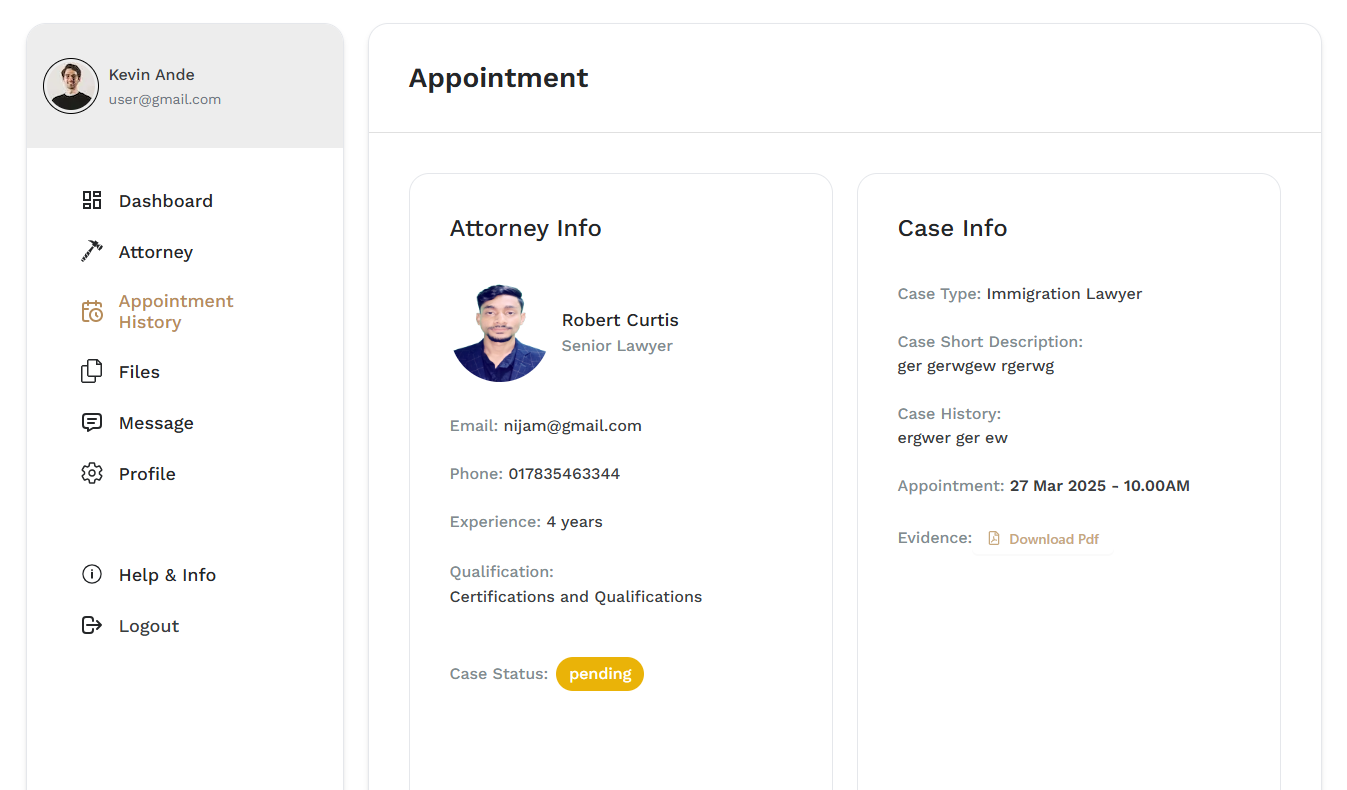
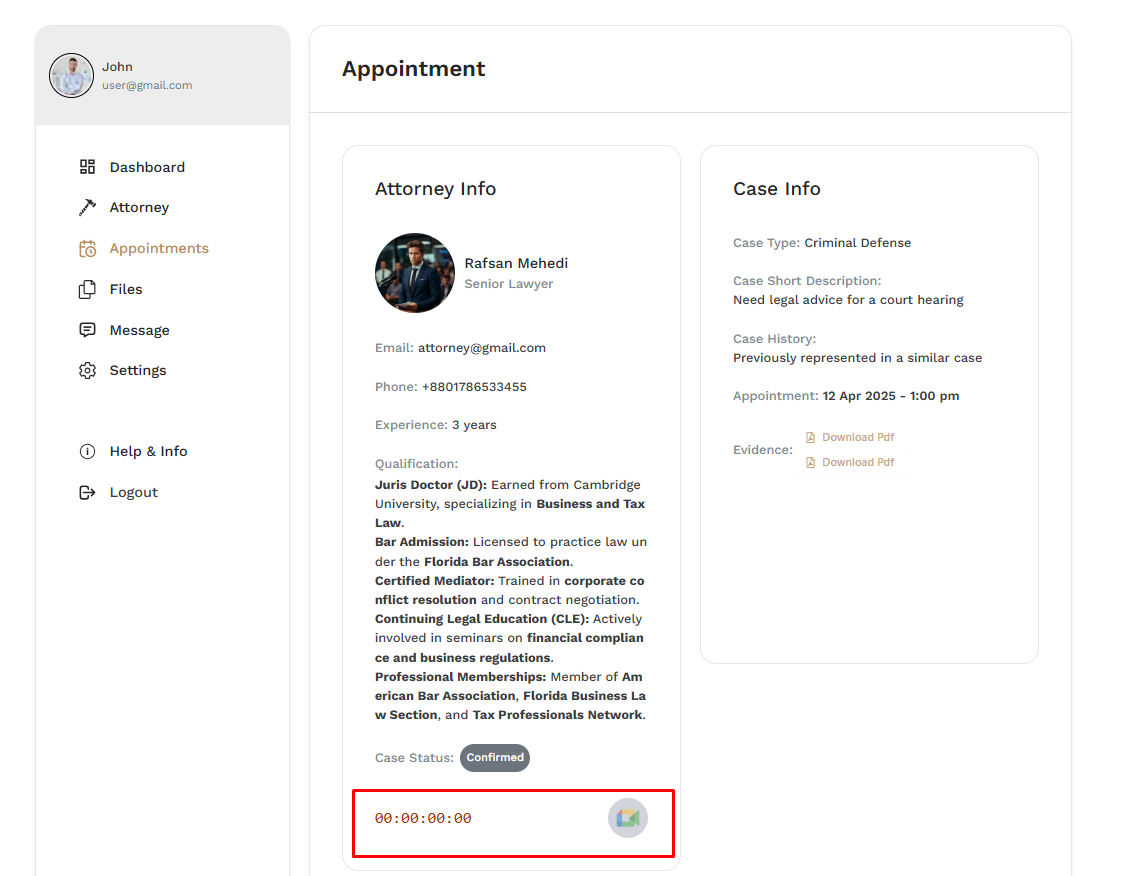
Refactor code structure for improved readability and maintainability

diff --git a/docs/Admin/dashboard.md b/docs/Admin/dashboard.md
@@ -6,3 +6,23 @@ sidebar_position: 1
 
 The admin dashboard is the central hub for administrators after a successful login. It provides a comprehensive overview of key metrics and statistics essential for managing the platform effectively.
 
+![Dashboard](./img/admin.png)
+
+
+- The dashboard contains the following sections:
+
+  - **Dashboard**: This is the main page of the application, where you can see an overview of your account.
+
+  - **Users**: This section allows you to manage and view all users on the platform.
+
+  - **Attorneys**: This section allows you to manage and view all attorneys on the platform.
+
+  - **Appointments**: This section allows you to manage and view all appointments on the platform.
+
+  - **Messages**: This section allows you to manage and view all messages on the platform.
+
+  - **Revenue**: This section allows you to manage and view all revenue on the platform.
+
+  - **Case Analtics**: This section allows you to manage and view all case analytics on the platform.
+
+  - **Top Clients**: This section allows you to show all top clients on the platform.

diff --git a/docs/Attorney/dashboard.md b/docs/Attorney/dashboard.md
@@ -6,3 +6,18 @@ sidebar_position: 1
 
 
 The attorney Dashboard is the first page you see when you log in to your account. It gives you an overview of your account and allows you to navigate to different sections of the application.
+
+![Dashboard](./img/dasboard.png)
+
+
+- The dashboard contains the following sections:
+
+  - **Dashboard**: This is the main page of the application, where you can see an overview of your account.
+
+  - **Case Overview**: This section shows you all of your case overview.
+
+  - **Messages**: This section allows you to receive messages from other users.
+
+  - **Upcoming Appointments**: This section shows your upcoming appointments and that appointment google meet link.
+
+  - **Appointment List**: This section attorneys can see their appointment list.

diff --git a/docs/User/Appointment.md b/docs/User/Appointment.md
@@ -11,3 +11,5 @@ sidebar_position: 3
 ![Appointment](./img/12.png)
 
 ![Appointment](./img/13.png)
+
+- The meeting link will be available in your appointment history 10 minutes before the meeting starts.
